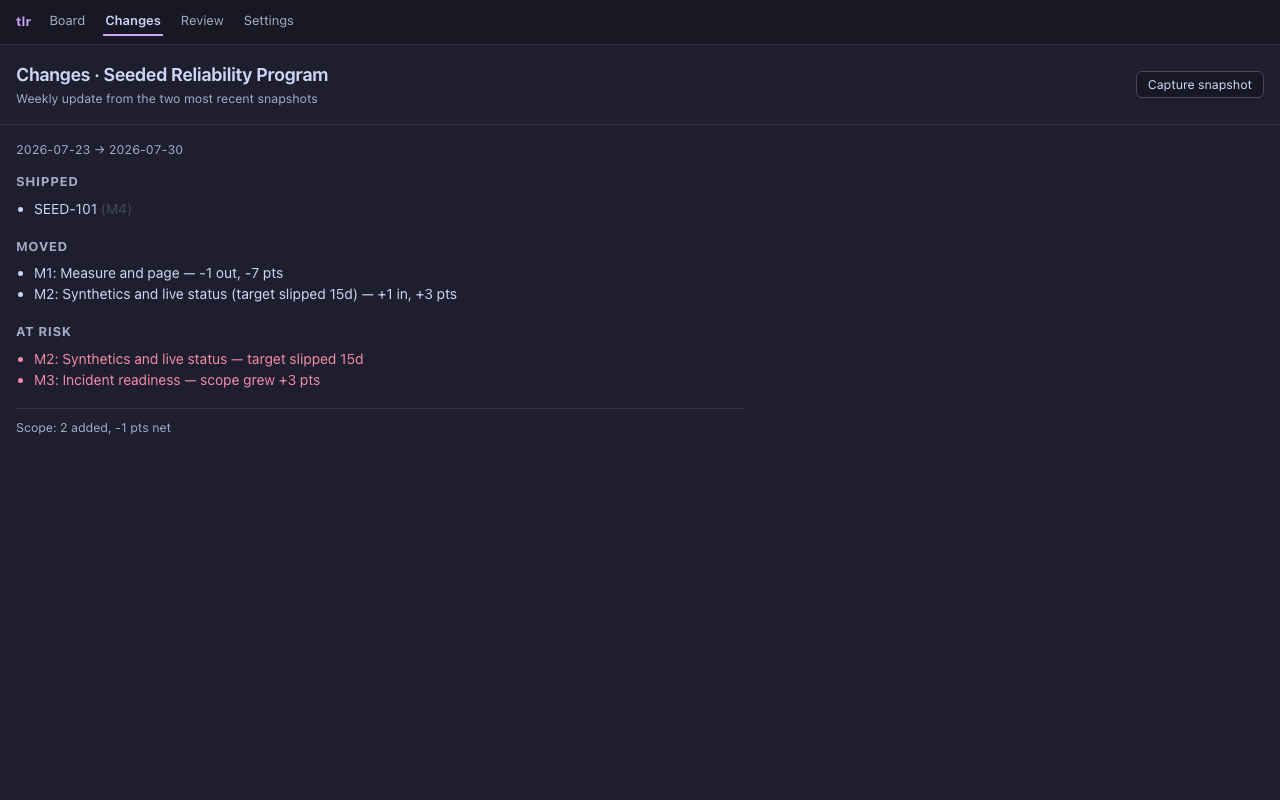
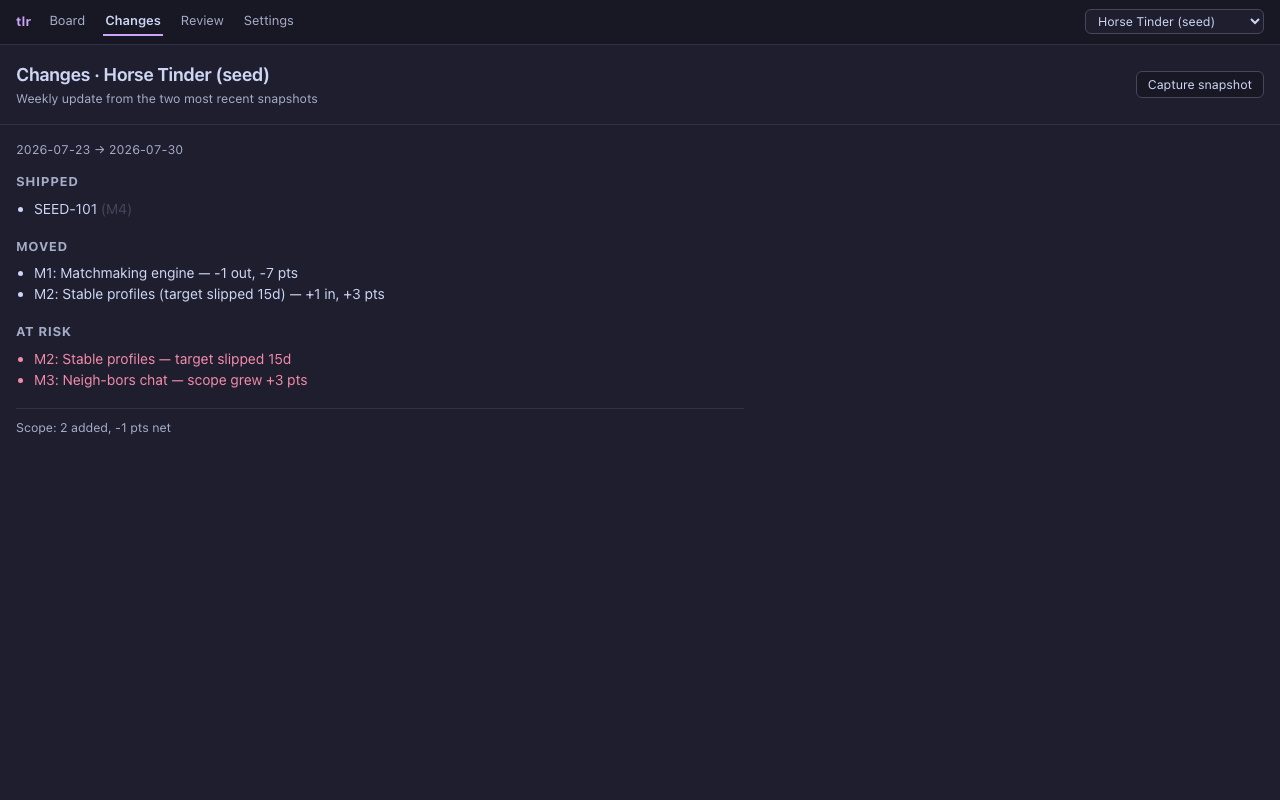
feat(demo): reflavor synthetic seed/sample data as Horse Tinder
The offline seed generator (src/seed.ts, used by screenshots and e2e)
and the static data-sample.json fallback both used a "Reliability
Program" theme with milestone names and ticket text (SLO spec, paging,
synthetic probes, status pages, incident grace mode) that reads too much
like real internal on-call/SRE work. Reflavors both to the same fictional
"Horse Tinder" theme already used for the live-workspace demo fixture
(scripts/seed-linear.ts), so there's one obviously-fake demo story
instead of two. Only display text changed (project name, milestone
names, ticket titles/descriptions) — ids, milestone keys, and the
specific drift behavior tests assert on are untouched.

diff --git a/src/seed.ts b/src/seed.ts
@@ -87,16 +87,18 @@ const STATUS_LABEL: Record<Issue["statusType"], string> = {
 }
 
 // A few descriptions written to trip the slop scan (dashes, semicolons, checklist, stock phrases),
-// mixed with clean ones, so `tlr scan` and the board's slop filter have signal.
+// mixed with clean ones, so `tlr scan` and the board's slop filter have signal. Same fictional "Horse
+// Tinder" theme as scripts/seed-linear.ts's live-workspace fixture, so every demo/test surface tells
+// one obviously-fake story instead of two, and neither reads like real internal project data.
 const SLOP_DESC =
-  "This ticket will comprehensively leverage a robust, seamless approach; it delves into the core.\n- [ ] step one\n- [ ] step two"
-const CLEAN_DESC = "Add a p99 latency panel to the reliability dashboard and alert when it exceeds 300ms."
+  "This ticket will comprehensively leverage a robust, seamless approach to delight our equine users; it delves into the core.\n- [ ] step one\n- [ ] step two"
+const CLEAN_DESC = "Score candidates on breed compatibility, temperament, and shared disciplines."
 
 const MILESTONES = [
-  { key: "M1", name: "M1: Measure and page", target: "2026-07-31", progress: 55 },
-  { key: "M2", name: "M2: Synthetics and live status", target: "2026-08-31", progress: 20 },
-  { key: "M3", name: "M3: Incident readiness", target: "2026-09-30", progress: 5 },
-  { key: "M4", name: "M4: Chaos and game days", target: "2026-10-31", progress: 0 },
+  { key: "M1", name: "M1: Matchmaking engine", target: "2026-07-31", progress: 55 },
+  { key: "M2", name: "M2: Stable profiles", target: "2026-08-31", progress: 20 },
+  { key: "M3", name: "M3: Neigh-bors chat", target: "2026-09-30", progress: 5 },
+  { key: "M4", name: "M4: Trust and safety", target: "2026-10-31", progress: 0 },
 ]
 
 const CYCLES = [
@@ -150,7 +152,7 @@ function baseSnapshot(): Snapshot {
 
   return {
     project: {
-      name: "Seeded Reliability Program",
+      name: "Horse Tinder (seed)",
       start: "2026-07-01",
       target: "2026-11-30",
       url: "https://linear.app/seed",
